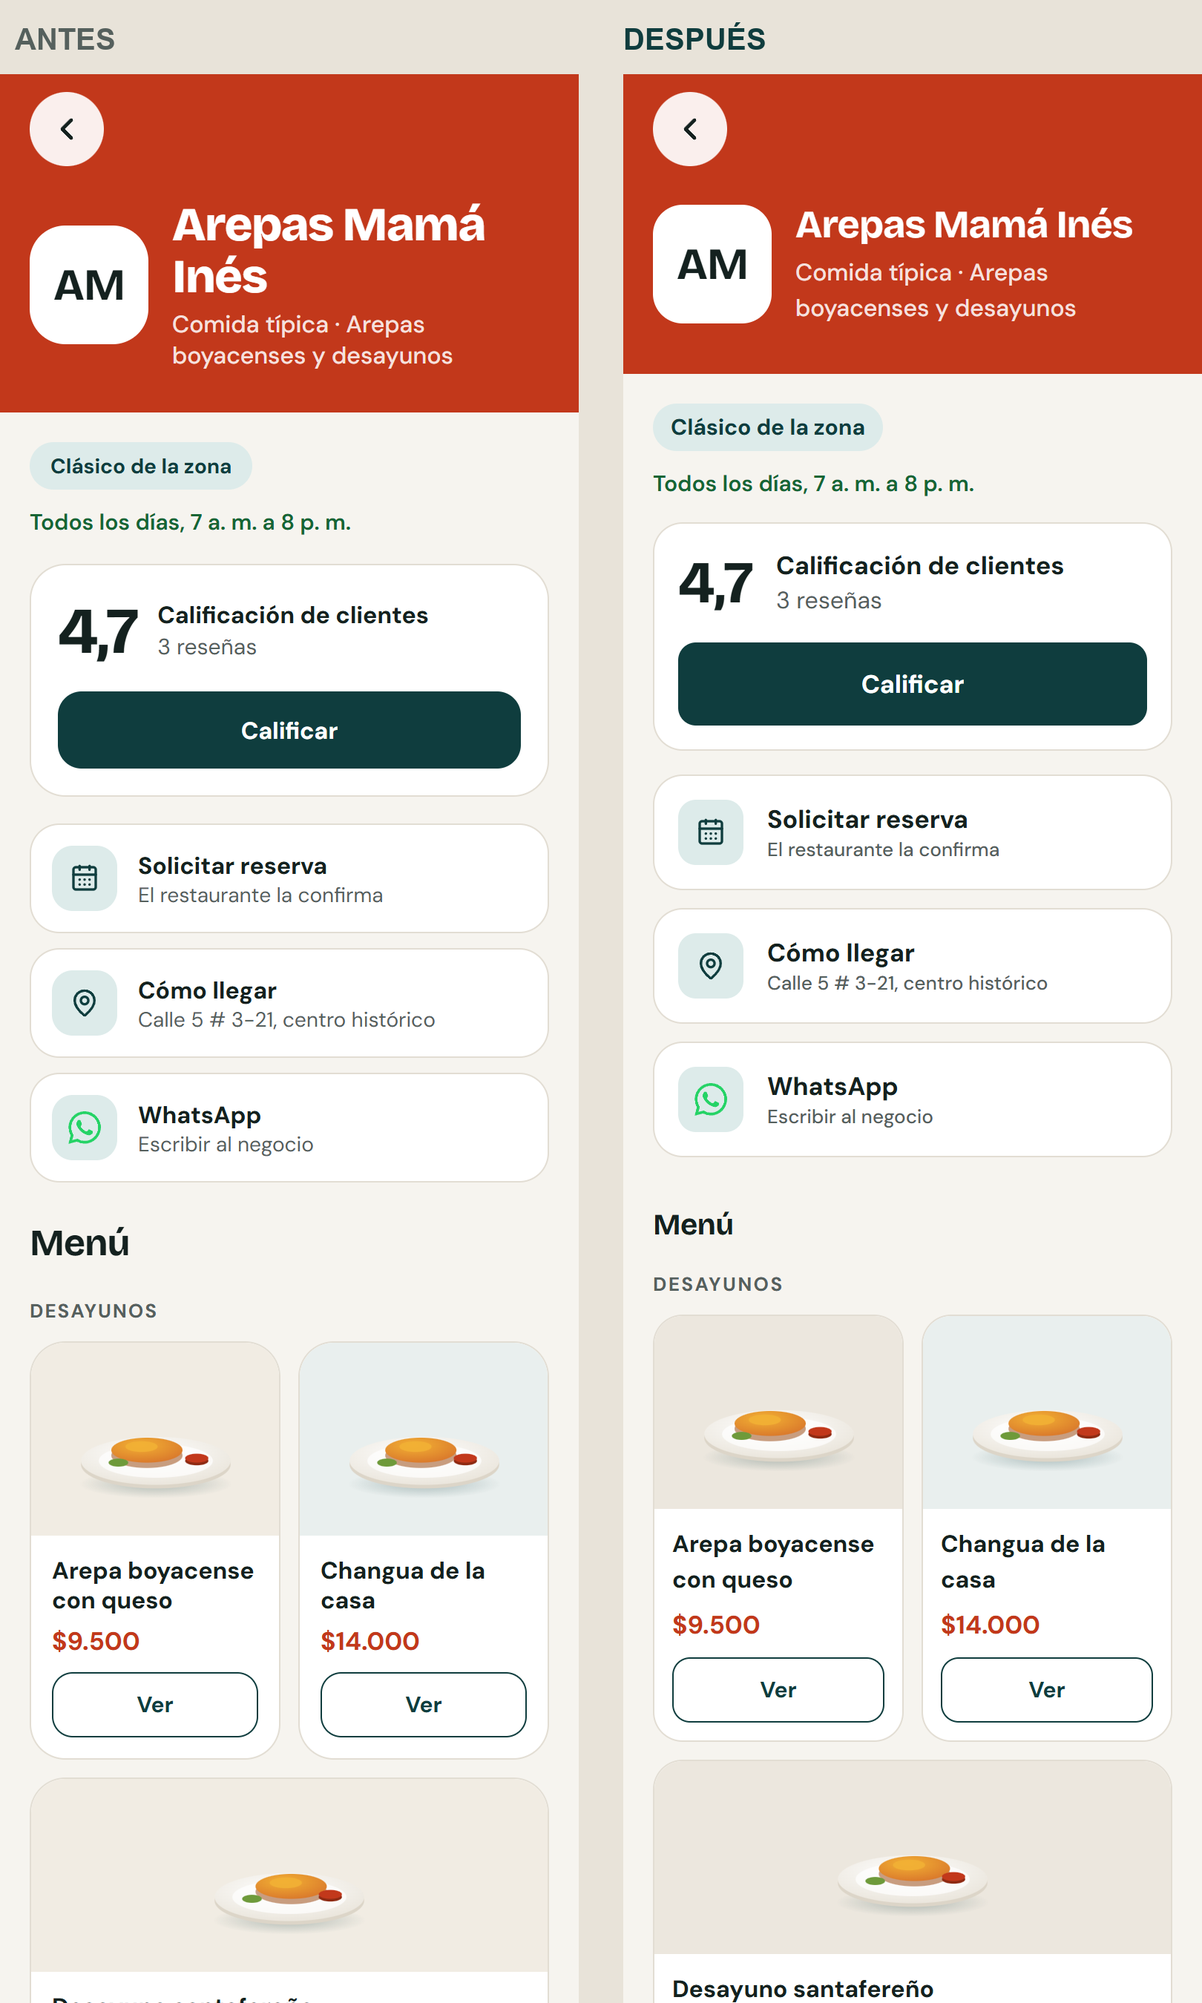
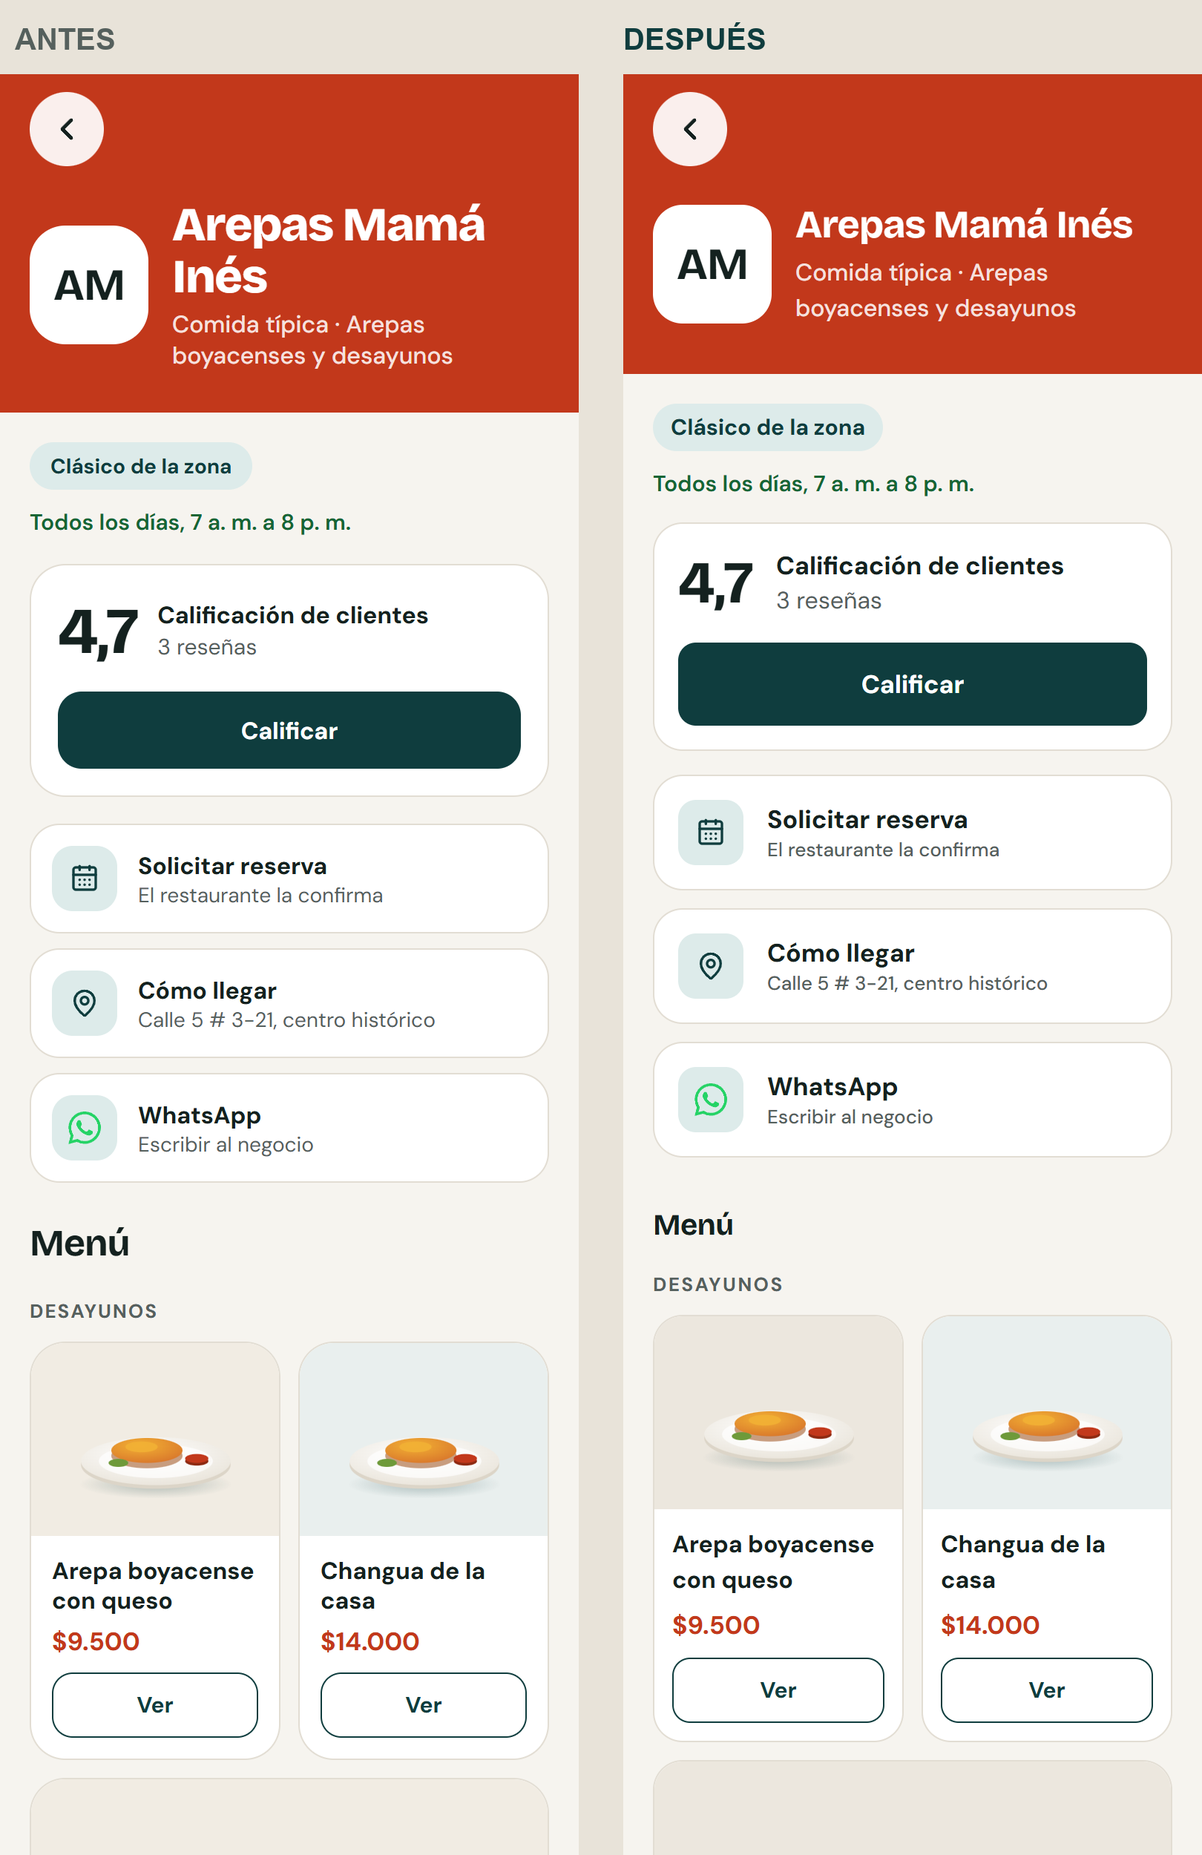
Cierre del rediseño de tipografía y espacios
Últimos valores sueltos a tokens (márgenes de 20, esquinas de cabeceras), ESPECIFICACION.md actualizada (Bricolage Grotesque y DM Sans, Zipa lo tiene, escala, espacios, radios, fondos de estado y excepciones), capturas finales y resultados de las pruebas de cierre.

Changed region(s): [[0.0, 0.0, 0.4938, 1.0], [0.5247, 0.0, 1.0, 1.0]]

diff --git a/apps/clientes/src/app/index.tsx b/apps/clientes/src/app/index.tsx
@@ -22,7 +22,7 @@ export default function Welcome() {
   );
 
   return (
-    <View style={[styles.screen, { paddingTop: 28 + insets.top, paddingBottom: 32 + insets.bottom }]}>
+    <View style={[styles.screen, { paddingTop: spacing.xxl + insets.top, paddingBottom: spacing.xxl + insets.bottom }]}>
       {/* Decoración: anillo que sale por la derecha y cuadro mostaza. */}
       <View style={styles.ring} aria-hidden />
       <View style={styles.cube} aria-hidden>
@@ -63,7 +63,7 @@ export default function Welcome() {
 }
 
 const styles = StyleSheet.create({
-  screen: { flex: 1, backgroundColor: colors.primary, paddingHorizontal: spacing.xl, gap: spacing.xl, overflow: 'hidden' },
+  screen: { flex: 1, backgroundColor: colors.primary, paddingHorizontal: spacing.lg, gap: spacing.xl, overflow: 'hidden' },
   // En el prototipo: 260 de ancho + borde 36 por lado = 332 en total.
   ring: { position: 'absolute', right: -70, top: 120, width: 332, height: 332, borderRadius: radius.pill, borderWidth: 36, borderColor: colors.primaryDeep },
   cube: { position: 'absolute', right: 30, top: 210, width: 90, height: 90, borderRadius: 22, backgroundColor: colors.accent, alignItems: 'center', justifyContent: 'center', transform: [{ rotate: '14deg' }] },

diff --git a/apps/clientes/src/app/(tabs)/negocio.tsx b/apps/clientes/src/app/(tabs)/negocio.tsx
@@ -62,7 +62,7 @@ export default function TienesNegocio() {
 }
 
 const styles = StyleSheet.create({
-  header: { backgroundColor: colors.primary, paddingHorizontal: spacing.xl, paddingBottom: 30, gap: spacing.sm, borderBottomLeftRadius: 30, borderBottomRightRadius: 30, overflow: 'hidden' },
+  header: { backgroundColor: colors.primary, paddingHorizontal: spacing.lg, paddingBottom: spacing.xxl, gap: spacing.sm, borderBottomLeftRadius: radius.xl, borderBottomRightRadius: radius.xl, overflow: 'hidden' },
   plate: { position: 'absolute', right: -24, top: 18, opacity: 0.9, transform: [{ rotate: '10deg' }] },
   kicker: { ...typography.label, color: colors.onPrimaryMuted },
   title: { ...typography.display, color: '#FFFFFF', maxWidth: 320, marginTop: 70 }, // 70: deja ver la ilustración encima (posición, no ritmo)

diff --git a/apps/negocios/src/app/index.tsx b/apps/negocios/src/app/index.tsx
@@ -58,7 +58,7 @@ export default function Inicio() {
 }
 
 const styles = StyleSheet.create({
-  hero: { backgroundColor: colors.dark, overflow: 'hidden', borderBottomLeftRadius: 32, borderBottomRightRadius: 32 },
+  hero: { backgroundColor: colors.dark, overflow: 'hidden', borderBottomLeftRadius: radius.xl, borderBottomRightRadius: radius.xl },
   heroInner: { paddingHorizontal: spacing.lg, paddingTop: spacing.md, paddingBottom: spacing.xxl, gap: spacing.xl },
   ring: { position: 'absolute', right: -110, top: -30, width: 290, height: 290, borderRadius: radius.pill, borderWidth: 38, borderColor: '#1E3431' },
   plate: { position: 'absolute', right: -18, top: 74, transform: [{ rotate: '-9deg' }] },

diff --git a/apps/negocios/src/app/panel.tsx b/apps/negocios/src/app/panel.tsx
@@ -273,7 +273,7 @@ function DataRow({ label, value }: { label: string; value: string }) {
 
 const styles = StyleSheet.create({
   loading: { flex: 1, alignItems: 'center', justifyContent: 'center', backgroundColor: colors.background },
-  header: { backgroundColor: colors.dark, borderBottomLeftRadius: 32, borderBottomRightRadius: 32 },
+  header: { backgroundColor: colors.dark, borderBottomLeftRadius: radius.xl, borderBottomRightRadius: radius.xl },
   headerInner: { paddingHorizontal: spacing.lg, paddingTop: spacing.lg, paddingBottom: spacing.xxl, gap: spacing.sm },
   kicker: { ...typography.label, color: '#AFC2BE' },
   titleRow: { flexDirection: 'row', alignItems: 'center', gap: spacing.md },

diff --git a/apps/clientes/src/app/categoria/[id].tsx b/apps/clientes/src/app/categoria/[id].tsx
@@ -68,7 +68,7 @@ export default function Categoria() {
 
   return (
     <View style={[styles.screen, { paddingTop: insets.top }]}>
-      <ScrollView contentContainerStyle={[styles.scroll, { paddingBottom: 32 + insets.bottom }]} showsVerticalScrollIndicator={false}>
+      <ScrollView contentContainerStyle={[styles.scroll, { paddingBottom: spacing.xxl + insets.bottom }]} showsVerticalScrollIndicator={false}>
         <View style={styles.head}>
           <BackButton />
           <View style={{ flex: 1, gap: spacing.xxs }}>

diff --git a/docs/diseno/ESPECIFICACION.md b/docs/diseno/ESPECIFICACION.md
@@ -1,6 +1,12 @@
-# Especificación de diseño: Vitrina Local
+# Especificación de diseño: Zipa lo tiene
 
-Fuente de verdad visual para las dos apps. El código del prototipo está en `prototipo/`:
+> **Fuente de verdad: `packages/shared/src/theme.ts`.** Este documento la describe.
+> Si algo de aquí no coincide con `theme.ts`, manda `theme.ts`.
+>
+> - **Sección 1 (tokens):** actualizada el 20-nov-2026 con el rediseño de tipografía y espacios. Las referencias están en `rediseno-tipografia/`; el antes y después, en `docs/capturas-tipografia/comparacion/`.
+> - **Secciones 2 a 4:** describen el prototipo original y quedan como **referencia histórica de la estructura**. Sus medidas (tamaños, radios y espacios) ya no son las vigentes: hoy salen de los tokens de la sección 1.
+
+El código del prototipo está en `prototipo/`:
 
 - `prototipo/app-clientes.prototipo.html`: todas las pantallas de la app de clientes.
 - `prototipo/app-negocios.prototipo.html`: registro en 5 pasos y panel del negocio.
@@ -39,7 +45,19 @@ Los valores exactos (px, colores, radios, pesos) se copian de ahí a `StyleSheet
 | `star` | `#E09A00` | Estrellas |
 | `starText` | `#8A5A00` | Texto de estrellas en reseñas |
 | `chipIdle` | `#ECE7DE` | Fondo de botones circulares neutros |
-| `stage3d` | `#E9EFEE` | Fondo del visor 3D |
+| `stage3d` | `#E9EFEE` | Fondo del visor 3D y de la galería |
+
+**Fondos de estado** (píldoras, avisos y plazos). Cada uno va con su color de texto:
+
+| Token | Hex | Texto | Uso |
+| --- | --- | --- | --- |
+| `successSoft` | `#DCEFE2` | `success` | Confirmada, Abierto, Publicado, «Solicitud enviada» |
+| `warningSoft` | `#FDEFD0` | `accentText` | Pendiente, En revisión, avisos |
+| `dangerSoft` | `#F9DED6` | `danger` | Rechazada, plazo «Responde antes de», errores |
+| `infoSoft` | `#DDEBEA` | `primary` | Avisos informativos, «Clásico de la zona» |
+| `neutralSoft` | `#ECE7DE` | `textMuted` | Cancelada, Vencida, conteos inactivos |
+
+**No se escriben colores a mano en las pantallas:** siempre van por token. Las únicas excepciones son los colores sobre fondos oscuros, como el blanco o los translúcidos de la cámara y del visor de fotos.
 
 Colores de portada por negocio (fondo / círculo interior), mientras no haya fotos:
 
@@ -57,29 +75,80 @@ Para negocios nuevos sin foto: portada por categoría (`comer` `#C2381B`, `artes
 
 ### Tipografía
 
-- Títulos y números grandes: **Space Grotesk** 700 (`@expo-google-fonts/space-grotesk`).
-- Todo lo demás: **DM Sans** 400 / 500 / 600 / 700 (`@expo-google-fonts/dm-sans`).
-- Cargar con `useFonts` en el `_layout.tsx` raíz de cada app y mantener el splash hasta que carguen.
+- **Familias:**
+  - títulos y números grandes: **Bricolage Grotesque** 600 / 700 / 800 (`@expo-google-fonts/bricolage-grotesque`);
+  - textos, botones y formularios: **DM Sans** 400 / 500 / 600 / 700 (`@expo-google-fonts/dm-sans`).
+- **Carga:** las dos apps las cargan con `useFonts(APP_FONTS)` en su `_layout.tsx` raíz.
+- **Peso:** cada peso es un archivo distinto, así que se elige con `fontFamily` (`fonts.*`), no con `fontWeight`.
+- **Escala:** son 8 estilos compartidos por las dos apps, en `typography` de `@zipa/shared`. En negocios, `type` de `kit.tsx` los repite y agrega dos:
+  - `error`: `label` en rojo;
+  - `help`: `body` en gris, para párrafos de ayuda.
 
-| Estilo | Fuente | Tamaño / alto de línea | Peso | Extra |
+| Estilo | Fuente | Tamaño / alto de línea | Tracking | Uso |
 | --- | --- | --- | --- | --- |
-| Display (bienvenida) | Space Grotesk | 40 / 42 | 700 | letterSpacing -0.8 |
-| H1 pantalla | Space Grotesk | 28 / 31 | 700 | letterSpacing -0.56 |
-| H1 detalle | Space Grotesk | 24–26 | 700 | |
-| H2 sección | Space Grotesk | 20 | 700 | |
-| Cuerpo | DM Sans | 15 / 22 | 400 | |
-| Nombre en tarjeta | DM Sans | 15 | 700 | |
-| Meta | DM Sans | 12–13 | 400–600 | color `textMuted` |
-| Etiqueta (badge) | DM Sans | 11–12 | 700 | píldora |
-| Sobretítulo | DM Sans | 11–12 | 700 | MAYÚSCULAS, letterSpacing 0.7 |
+| `display` | Bricolage 800 | 34 / 40 | −0,8 | Titular de portada, código de reserva, números grandes |
+| `title` | Bricolage 700 | 26 / 32 | −0,5 | Título de pantalla, nombre del negocio o producto, precio grande |
+| `heading` | Bricolage 700 | 20 / 26 | −0,3 | Títulos de sección: Destacados, Menú, Tu menú |
+| `subtitle` | DM Sans 700 | 17 / 24 | 0 | Título de tarjeta, texto de botones |
+| `body` | DM Sans 400 | 16 / 24 | 0 | Descripciones, mensajes y textos largos (color `textBody`) |
+| `label` | DM Sans 600 | 15 / 20 | 0 | Datos, chips, precios en listas, rótulos de campos |
+| `caption` | DM Sans 500 | 13 / 18 | 0 | Información secundaria: categoría, «Recibida hoy» (color `textMuted`) |
+| `overline` | DM Sans 700 | 13 / 16 | +1,2 | Rótulos en MAYÚSCULAS sobre secciones |
 
-### Espaciado y radios
+**Reglas:**
+- Se usan los estilos de la tabla; un estilo puede cambiar solo el color o el peso (`fontFamily`), por ejemplo un `caption` en negrita para una etiqueta.
+- Texto de lectura: 16. **Nada importante por debajo de 13.**
+- **No se desactiva `allowFontScaling` ni se ponen alturas fijas a cajas con texto:** todo debe aguantar el tamaño de letra del celular al 130 %. Se usa `minHeight`, nunca `height`.
 
-- Margen lateral de pantalla: 20 (24 en bienvenida, inicio de negocios e inicio de sesión).
-- Separación entre secciones: 22; dentro de una sección: 12; entre tarjetas: 10–14.
-- Radios: inputs 12–14, botones 14 (16 el principal de bienvenida), tarjetas 16–20, portadas internas 14, píldoras 999.
-- Cabeceras verdes: esquinas inferiores redondeadas 28.
-- Alturas táctiles: botón principal 52–56, secundario 44–48, chips 40, iconos circulares 44.
+**Excepciones aceptadas** (cada una lleva su comentario en el código):
+
+| Dónde | Por qué |
+| --- | --- |
+| Título de las dos tarjetas grandes del Inicio de clientes | 16, para que «Emprendimientos» quepa en dos columnas |
+| Iniciales del logo y número grande de la calificación (ficha del negocio) | Son gráficos, no texto de lectura |
+| Estrellas de las reseñas | Son un símbolo |
+| Palomita de la casilla de consentimiento | Es un símbolo |
+| Afiche QR (`QrPoster`) | Es una imagen para imprimir y tiene sus propias medidas |
+
+### Espacios, radios y medidas
+
+Los espacios son todos múltiplos de 4 (`spacing`):
+
+| Token | Valor | Uso |
+| --- | --- | --- |
+| `xxs` | 4 | Ícono y texto |
+| `xs` | 8 | Líneas dentro de una tarjeta |
+| `sm` | 12 | Entre tarjetas |
+| `md` | 16 | Relleno de tarjetas y botones |
+| `lg` | 20 | **Margen lateral de pantalla** (las dos apps) |
+| `xl` | 24 | Debajo de cabeceras |
+| `xxl` | 32 | Entre secciones |
+| `xxxl` | 48 | Final de pantalla |
+
+Radios (`radius`):
+
+| Token | Valor | Uso |
+| --- | --- | --- |
+| `sm` | 8 | Etiquetas pequeñas |
+| `md` | 12 | Botones, buscador e inputs |
+| `lg` | 20 | Tarjetas |
+| `xl` | 28 | Cabeceras, galerías y hojas |
+| `pill` | 999 | Píldoras, chips, avatares y círculos |
+
+Medidas fijas (`sizes`):
+- botones e inputs: 56 de alto;
+- nada que se toque mide menos de 44 (`touchMin`).
+
+**Excepciones de posición:** no son ritmo, solo ubican el titular debajo de la ilustración.
+- Bienvenida de negocios: `marginTop` 128.
+- «¿Tienes negocio?» en clientes: `marginTop` 70.
+
+**Formas aprobadas en el rediseño:**
+- Estados en píldora con su fondo de estado.
+- Datos de «Mi reserva» en filas de etiqueta y valor dentro de una tarjeta.
+- Productos del panel de negocios en una tarjeta con separadores. El menú de la ficha del negocio sigue en cuadrícula con fotos.
+- Pestañas de Reservas de 44 de alto con el conteo en una burbuja. El nombre accesible sigue siendo «Pendientes (2)».
+- Plazo «Responde antes de» en una etiqueta `dangerSoft`.
 
 ### Iconos
 
@@ -109,7 +178,7 @@ Usar `lucide-react-native` (trazo 2, color heredado). Equivalencias con el proto
 
 **Tiles de categoría**: grilla de 4 columnas, gap 10, alto 84, radio 18. Inactivo: blanco con borde. Activo: `primary` con texto e icono blancos. Icono 24 arriba, etiqueta 13/700 abajo.
 
-**Tarjeta de ranking** ("Lo más destacado"): fondo `primary`, radio 18, padding 12. Izquierda: cuadro 40 mostaza radio 12 con el puesto (Space Grotesk 18). Centro: sobretítulo mostaza ("MEJOR EN COMER" / "PUESTO 2 EN ARTESANÍAS"), nombre blanco 15/700, meta `onPrimaryMuted` 12. Derecha: estrella mostaza + calificación 16/700 blanco.
+**Tarjeta de ranking** ("Lo más destacado"): fondo `primary`, radio 18, padding 12. Izquierda: cuadro 40 mostaza radio 12 con el puesto (Bricolage Grotesque 18). Centro: sobretítulo mostaza ("MEJOR EN COMER" / "PUESTO 2 EN ARTESANÍAS"), nombre blanco 15/700, meta `onPrimaryMuted` 12. Derecha: estrella mostaza + calificación 16/700 blanco.
 
 **Tarjeta de carrusel** (Emprendimientos del barrio): ancho 210, scroll horizontal que llega al borde (margen -20, padding 20). Portada 120 de alto con círculo 64 (borde blanco 6 al 85 %) y sello mostaza "N en 3D" abajo a la izquierda. Cuerpo: nombre 15/700, "categoría · distancia" 12, estrella + calificación + (n reseñas).
 
@@ -123,7 +192,7 @@ Usar `lucide-react-native` (trazo 2, color heredado). Equivalencias con el proto
 
 **Barra inferior** (app de clientes): alto 72, blanco, borde superior. Tres pestañas iguales: Explorar, ¿Tienes negocio?, Perfil. Activa `primary`, inactiva `textMuted`. 12/700. "¿Tienes negocio?" abre la app de negocios o su página en la tienda.
 
-**Encabezado de pasos** (app de negocios): botón atrás circular 44, sobretítulo "PASO N DE 5", título 18 Space Grotesk, y 5 barras de 6 de alto (completadas `primary`, pendientes `#DCD6CC`).
+**Encabezado de pasos** (app de negocios): botón atrás circular 44, sobretítulo "PASO N DE 5", título 18 Bricolage Grotesque, y 5 barras de 6 de alto (completadas `primary`, pendientes `#DCD6CC`).
 
 ---
 
@@ -144,16 +213,16 @@ Bloques en `prototipo/app-clientes.prototipo.html`:
 
 Ignorar el bloque `MI NEGOCIO` de este archivo: quedó de una versión anterior y ahora vive en la app de negocios.
 
-**Bienvenida**: fondo `primary` a pantalla completa. Logo (cuadro mostaza 36 con tienda) + "Vitrina Local". Decoración: anillo de 260 con borde 36 `primaryDeep` saliendo por la derecha y un cuadro mostaza 90 girado 14° con icono 3D. Abajo: título display "Lo mejor de Cartagena, hecho aquí." (la ciudad sale de la ubicación), párrafo `onPrimaryMuted`, tarjeta `primaryDeep` "Llegaste por el QR de tu hotel…", botón mostaza "Empezar a explorar" (56) y enlace mostaza "¿Tienes un negocio? Regístralo aquí".
+**Bienvenida**: fondo `primary` a pantalla completa. Logo (cuadro mostaza 36 con tienda) + "Zipa lo tiene". Decoración: anillo de 260 con borde 36 `primaryDeep` saliendo por la derecha y un cuadro mostaza 90 girado 14° con icono 3D. Abajo: título display "Lo mejor de Cartagena, hecho aquí." (la ciudad sale de la ubicación), párrafo `onPrimaryMuted`, tarjeta `primaryDeep` "Llegaste por el QR de tu hotel…", botón mostaza "Empezar a explorar" (56) y enlace mostaza "¿Tienes un negocio? Regístralo aquí".
 
-**Iniciar sesión**: botón atrás, logo 44, H1 "Entra a Vitrina Local", texto. Aviso `accentSoft` "Inicia sesión para publicar tu reseña." cuando viene de calificar. Botones "Continuar con Google" (blanco con borde) y "Continuar con Apple" (`text` con texto blanco), divisor "o con tu correo", inputs, error en `danger`, botón `primary` "Entrar o crear cuenta", enlace subrayado "Seguir como invitado".
+**Iniciar sesión**: botón atrás, logo 44, H1 "Entra a Zipa lo tiene", texto. Aviso `accentSoft` "Inicia sesión para publicar tu reseña." cuando viene de calificar. Botones "Continuar con Google" (blanco con borde) y "Continuar con Apple" (`text` con texto blanco), divisor "o con tu correo", inputs, error en `danger`, botón `primary` "Entrar o crear cuenta", enlace subrayado "Seguir como invitado".
 
 **Explorar** (orden de arriba abajo):
 1. Cabecera verde con buscador.
 2. Si hay texto en el buscador: solo "N resultados para «texto»" y las filas, o el estado vacío (borde punteado: "No encontramos ese nombre").
 3. Si no: tiles de categoría → "Lo más destacado" (subtítulo: "El mejor calificado de cada categoría" o "Los mejor calificados en {categoría}") → "Emprendimientos del barrio" (carrusel + contador "N negocios") → "Clásicos de la zona" (lista). Cada sección se oculta si queda vacía al filtrar.
 
-**Detalle del negocio**: cabecera del color de portada del negocio, botón atrás blanco al 92 %, logo cuadrado blanco 64 con iniciales (o la foto), nombre H1 blanco y meta. Debajo: aviso verde tras publicar reseña, etiqueta de tipo + horario en `success`, tarjeta de calificación (número 34 Space Grotesk, "Calificación de clientes", "N reseñas", botón `primary` "Calificar"), sección "Menú en 3D" (comer) o "Vitrina en 3D" (resto) con grilla de productos, sección "Lo que dicen los clientes".
+**Detalle del negocio**: cabecera del color de portada del negocio, botón atrás blanco al 92 %, logo cuadrado blanco 64 con iniciales (o la foto), nombre H1 blanco y meta. Debajo: aviso verde tras publicar reseña, etiqueta de tipo + horario en `success`, tarjeta de calificación (número 34 Bricolage Grotesque, "Calificación de clientes", "N reseñas", botón `primary` "Calificar"), sección "Menú en 3D" (comer) o "Vitrina en 3D" (resto) con grilla de productos, sección "Lo que dicen los clientes".
 
 **Producto en 3D**: escenario 380 de alto fondo `stage3d` con el modelo girando, botón atrás, sello mostaza "Vista 3D", texto "Arrastra para girar". Controles: botón "Pausar giro / Girar solo" y deslizador "Girar". Datos: negocio, nombre H1 26, descripción, precio 20 en `price`, chips de etiquetas, botón `primary` con `ScanLine` "Ver en mi mesa" (comida) o "Ver en mi espacio" (productos), botón con borde "Ya lo probé: calificar" / "Ya lo compré: calificar".
 
@@ -178,7 +247,7 @@ Bloques en `prototipo/app-negocios.prototipo.html`:
 | Paso 5 Vista previa | `PASO 5: VISTA PREVIA` | `src/app/registro/vista-previa.tsx` |
 | Panel | `PANEL DEL NEGOCIO` | `src/app/panel.tsx` |
 
-**Inicio**: cabecera `text` (oscura) con logo "Vitrina Local **Negocios**" (Negocios en mostaza), H1 34 "Que los turistas encuentren tu negocio.", párrafo. Tres beneficios con check en círculo `primarySoft`. Tarjeta "Registro en 5 pasos, unos 10 minutos…". Botón mostaza "Registrar mi negocio", botón con borde "Ya tengo cuenta".
+**Inicio**: cabecera `text` (oscura) con logo "Zipa lo tiene **Negocios**" (Negocios en mostaza), H1 34 "Que los turistas encuentren tu negocio.", párrafo. Tres beneficios con check en círculo `primarySoft`. Tarjeta "Registro en 5 pasos, unos 10 minutos…". Botón mostaza "Registrar mi negocio", botón con borde "Ya tengo cuenta".
 
 **Paso 2**: tipo de negocio en 2 tarjetas seleccionables (borde 2, seleccionada `primary` con fondo `stage3d`), con título y descripción; categorías como chips (seleccionado `primary`).
 
